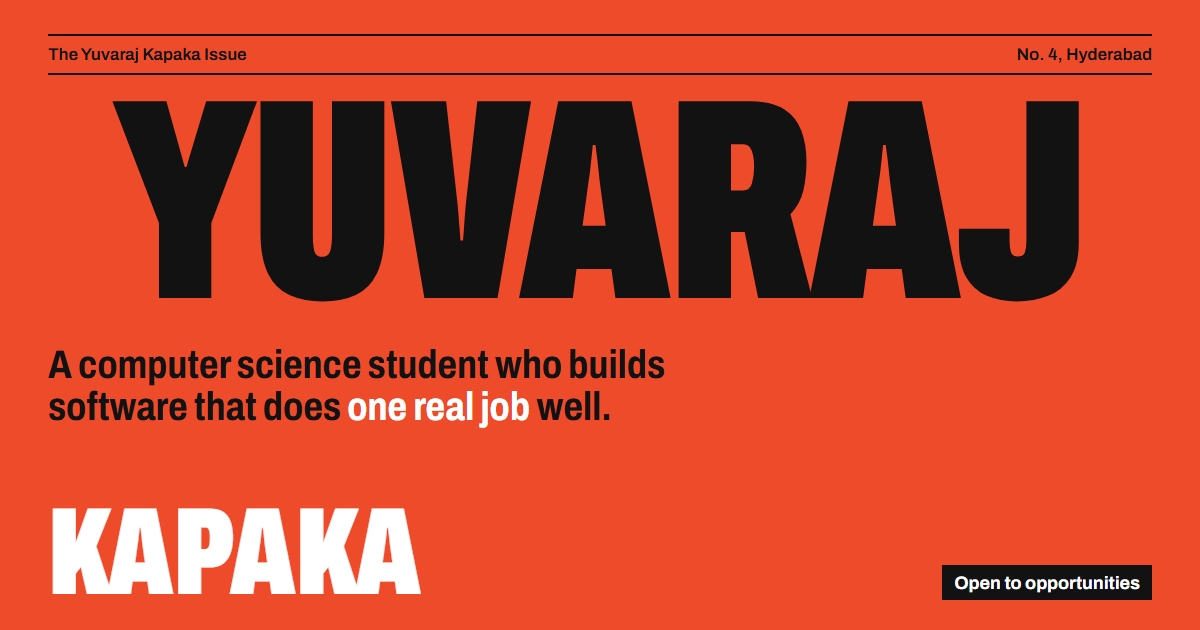
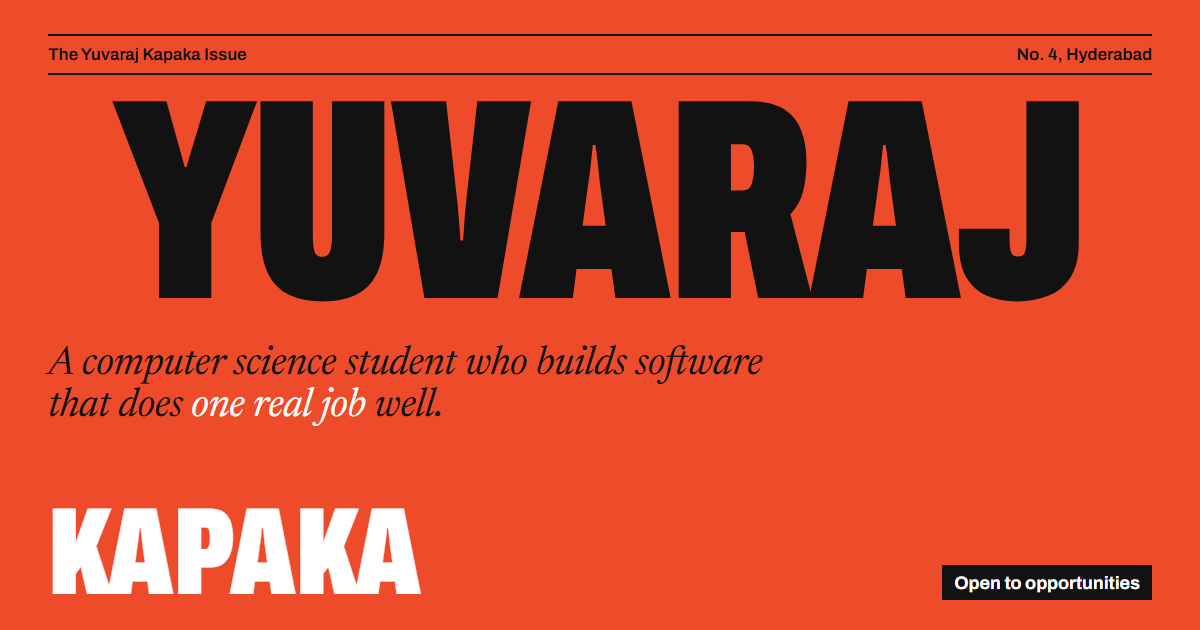
Bring back Newsreader for reading text and italics

Changed region(s): [[0.0308, 0.5429, 0.6475, 0.6937]]

diff --git a/portfolio.css b/portfolio.css
@@ -2,8 +2,8 @@
    YUVARAJ KAPAKA, Issue 4
    Art direction: the portfolio as a printed magazine.
    White paper, ink, and one spot colour: signal red.
-   Type: Archivo only. Condensed (62-80%) for headlines,
-         normal width for reading text and labels.
+   Type: Archivo (variable width) for headlines and labels,
+         Newsreader (optical sizes) for reading text.
    ================================================================== */
 :root {
   --paper: #FFFFFF;
@@ -16,7 +16,7 @@
   --spot-ink: var(--ink);    /* text colour that sits on --spot */
 
   --display: "Archivo", "Arial Narrow", sans-serif;
-  --text: "Archivo", "Helvetica Neue", Arial, sans-serif;
+  --text: "Newsreader", Georgia, serif;
 
   --gutter: clamp(16px, 3.4vw, 48px);
   --runner-h: 56px;
@@ -27,7 +27,7 @@
 /* ---------- base ---------- */
 *, *::before, *::after { box-sizing: border-box; }
 html { background: var(--paper); scroll-padding-top: calc(var(--runner-h) + 12px); overflow-x: clip; }
-body { margin: 0; overflow-x: clip; background: var(--paper); color: var(--ink); font: 400 18px/1.55 var(--text); font-stretch: 100%; -webkit-font-smoothing: antialiased; }
+body { margin: 0; overflow-x: clip; background: var(--paper); color: var(--ink); font: 400 19px/1.55 var(--text); font-optical-sizing: auto; -webkit-font-smoothing: antialiased; }
 img { display: block; max-width: 100%; height: auto; }
 a { color: inherit; }
 h1, h2, h3, p, ol, ul, dl, dd, figure, blockquote { margin: 0; }
@@ -114,13 +114,13 @@ body.menu-open .runner { background: var(--red); border-bottom-color: var(--ink)
 }
 .cl-kicker { display: flex; flex-wrap: wrap; align-items: center; gap: 10px 16px; font-size: 12px; }
 .cl-open { padding: 6px 10px 5px; background: var(--ink); color: var(--paper); }
-.cl-statement { max-width: 16em; margin: 14px 0 22px; font: 700 clamp(30px, 3.5vw, 60px)/1.02 var(--text); font-stretch: 80%; letter-spacing: -.01em; text-wrap: balance; }
+.cl-statement { max-width: 16em; margin: 14px 0 22px; font: italic 400 clamp(32px, 3.7vw, 64px)/1.02 var(--text); letter-spacing: -.015em; text-wrap: balance; }
 .cl-statement em { font-style: normal; color: var(--paper); }
 .cover-actions { display: flex; flex-wrap: wrap; gap: 10px; }
 .cl-right { display: grid; }
 .cl-story { display: grid; grid-template-columns: minmax(0, 1fr) auto; align-items: baseline; gap: 2px 12px; padding: 10px 0; border-top: 2px solid var(--ink); text-decoration: none; font: 800 clamp(17px, 1.5vw, 23px)/1.08 var(--display); font-stretch: 75%; text-transform: uppercase; transition: padding-left 220ms var(--ease); }
 .cl-story b { grid-column: 1 / -1; font: 600 12px var(--display); text-transform: none; }
-.cl-story i { font: 600 14px var(--text); font-style: normal; text-transform: none; }
+.cl-story i { font: italic 500 15px var(--text); text-transform: none; }
 .cl-story:hover { padding-left: 10px; }
 .cover-foot { display: flex; justify-content: space-between; align-items: flex-end; gap: 24px; padding: 12px 0 12px; border-top: 2px solid var(--ink); }
 .surname { font: 900 11vw/.76 var(--display); font-stretch: 62%; color: var(--paper); letter-spacing: -.01em; }
@@ -132,7 +132,7 @@ body.menu-open .runner { background: var(--red); border-bottom-color: var(--ink)
 .page-head { display: grid; grid-template-columns: fit-content(62%) minmax(0, 1fr); gap: 8px clamp(28px, 4vw, 64px); align-items: end; margin-bottom: clamp(36px, 5vw, 64px); }
 .page-head .folio { grid-column: 1 / -1; font-size: 12px; color: var(--ink-3); }
 .page-head h2 { font: 900 clamp(64px, 12vw, 190px)/.8 var(--display); font-stretch: 62%; text-transform: uppercase; letter-spacing: -.01em; }
-.standfirst { font: 500 clamp(20px, 2vw, 28px)/1.3 var(--text); letter-spacing: -.005em; max-width: 22em; padding-bottom: .3em; }
+.standfirst { font: italic 400 clamp(22px, 2.2vw, 32px)/1.25 var(--text); max-width: 22em; padding-bottom: .3em; }
 
 /* Contents */
 .toc { border-top: 3px solid var(--ink); }
@@ -153,7 +153,7 @@ body.menu-open .runner { background: var(--red); border-bottom-color: var(--ink)
 .f-kicker span:first-child { padding: 6px 10px; background: var(--spot); color: var(--spot-ink); }
 .f-kicker .folio { margin-left: auto; color: var(--ink-3); }
 .f-title { font: 900 clamp(64px, 12.6vw, 200px)/.82 var(--display); font-stretch: 62%; text-transform: uppercase; letter-spacing: -.01em; text-wrap: balance; }
-.f-standfirst { margin-top: 22px; max-width: 26em; font: 500 clamp(20px, 2.1vw, 30px)/1.3 var(--text); letter-spacing: -.005em; text-wrap: pretty; }
+.f-standfirst { margin-top: 22px; max-width: 26em; font: italic 400 clamp(22px, 2.3vw, 34px)/1.24 var(--text); text-wrap: pretty; }
 .f-fig { margin: clamp(32px, 4vw, 56px) 0; border: 2px solid var(--ink); background: var(--ink); }
 .shot-stage { position: relative; aspect-ratio: 1440 / 900; overflow: hidden; background: #111; }
 .shot-stage img { position: absolute; inset: 0; width: 100%; height: 100%; object-fit: cover; transition: opacity 420ms var(--ease); }
@@ -206,7 +206,7 @@ body.menu-open .runner { background: var(--red); border-bottom-color: var(--ink)
 .dropcap::first-letter { float: left; margin: .05em .08em -.1em 0; font: 900 5.4em/.78 var(--display); font-stretch: 62%; color: var(--spot); }
 .pull {
   break-inside: avoid; margin: 1.1em 0; padding: 18px 0; position: relative;
-  font: 800 clamp(26px, 2.5vw, 36px)/1.08 var(--text); font-stretch: 75%; color: var(--ink);
+  font: italic 500 clamp(24px, 2.2vw, 30px)/1.22 var(--text); color: var(--ink);
   text-indent: -.42em; /* hang the opening quote mark outside the text edge */
 }
 .pull::before, .pull::after { content: ""; position: absolute; left: 0; right: 0; height: 3px; background: var(--spot); transform-origin: left; }
@@ -214,7 +214,7 @@ body.menu-open .runner { background: var(--red); border-bottom-color: var(--ink)
 .notes { counter-reset: n; margin-top: 1em; }
 .notes li { break-inside: avoid; position: relative; padding: 12px 0; border-top: 1px solid var(--ink); font-size: 17px; line-height: 1.5; }
 .notes b { font-weight: 700; }
-.sc { font-variant-caps: normal; }
+.sc { font-variant-caps: all-small-caps; letter-spacing: .04em; }
 .f-meta { align-self: start; position: sticky; top: calc(var(--runner-h) + 24px); border-top: 3px solid var(--ink); }
 .f-meta dl > div { padding: 12px 0; border-bottom: 1px solid var(--ink); }
 .f-meta dt { font-size: 11px; color: var(--ink-3); margin-bottom: 4px; }
@@ -289,7 +289,7 @@ body.menu-open .runner { background: var(--red); border-bottom-color: var(--ink)
 .dub-bars { grid-area: bars; display: flex; align-items: center; gap: 3px; height: 56px; }
 .dub-bars i { flex: 1; height: var(--h); background: var(--paper); opacity: .85; transform-origin: center; }
 .dub-te .dub-bars i { background: var(--red); opacity: 1; }
-.dub-line { grid-area: line; font: 500 21px/1.3 var(--text); }
+.dub-line { grid-area: line; font: italic 400 22px/1.3 var(--text); }
 .dub-te .dub-line { font-family: "Noto Sans Telugu", var(--text); font-style: normal; font-weight: 500; }
 .dub-steps { display: flex; flex-wrap: wrap; gap: 8px; padding-top: 18px; border-top: 1px solid rgba(242, 239, 232, .35); }
 .dub-steps li { padding: 8px 12px; border: 1.5px solid var(--paper); font: 700 12px/1 var(--display);  cursor: default; transition: background-color 160ms var(--ease), color 160ms var(--ease); }
@@ -305,7 +305,7 @@ body.menu-open .runner { background: var(--red); border-bottom-color: var(--ink)
 .q { margin-top: 34px; font-size: 13px; color: var(--ink); }
 .q::before { content: "Q. "; color: var(--red); }
 .q:first-child { margin-top: 0; }
-.a { margin-top: 10px; font: 400 clamp(20px, 1.8vw, 25px)/1.45 var(--text); }
+.a { margin-top: 10px; font: 400 clamp(22px, 2vw, 28px)/1.4 var(--text); }
 .iv-areas { margin-top: 40px; padding-top: 14px; border-top: 3px solid var(--ink); font: 500 18px/1.5 var(--display); font-stretch: 90%; }
 .iv-areas span { display: block; font-size: 11px; color: var(--ink-3); margin-bottom: 4px; }
 
@@ -319,7 +319,7 @@ body.menu-open .runner { background: var(--red); border-bottom-color: var(--ink)
 .idx-row .pp { font: 700 15px var(--display); white-space: nowrap; }
 .idx-row .pp a { text-decoration: none; padding: 0 2px; margin: 0 -2px; }
 .idx-row .pp a:hover { background: var(--red); }
-.idx-row .pp em { font: 500 14px var(--text); font-style: normal; color: var(--ink-3); }
+.idx-row .pp em { font: italic 400 15px var(--text); color: var(--ink-3); }
 .idx-row:hover .term { text-decoration: underline; text-decoration-color: var(--red); text-decoration-thickness: 2px; }
 
 /* Colophon */
@@ -336,7 +336,7 @@ body.menu-open .runner { background: var(--red); border-bottom-color: var(--ink)
 .backcover { position: relative; overflow: hidden; padding: clamp(56px, 8vw, 110px) var(--gutter) 28px; background: var(--ink); color: var(--paper); border-top: 3px solid var(--ink); }
 .bc-top { display: flex; justify-content: space-between; padding-bottom: 12px; border-bottom: 2px solid var(--paper); font-size: 12px; }
 .bc-title { margin: clamp(32px, 5vw, 64px) 0 24px; font: 900 clamp(60px, 11.5vw, 190px)/.8 var(--display); font-stretch: 62%; text-transform: uppercase; }
-.bc-email { display: inline-block; font: 800 clamp(28px, 5vw, 76px)/1.05 var(--text); font-stretch: 75%; text-decoration: underline; text-decoration-color: var(--red); text-decoration-thickness: 4px; text-underline-offset: 10px; word-break: break-word; transition: color 200ms var(--ease); }
+.bc-email { display: inline-block; font: italic 400 clamp(28px, 5vw, 72px)/1.1 var(--text); text-decoration: underline; text-decoration-color: var(--red); text-decoration-thickness: 4px; text-underline-offset: 10px; word-break: break-word; transition: color 200ms var(--ease); }
 .bc-email:hover { color: var(--red); }
 .bc-actions { display: flex; flex-wrap: wrap; align-items: center; gap: 12px 22px; margin: 36px 0 clamp(56px, 8vw, 110px); font: 700 15px var(--display); }
 .bc-actions .link { --spot: var(--red); }

diff --git a/index.html b/index.html
@@ -18,7 +18,7 @@
   <meta name="twitter:card" content="summary_large_image">
   <link rel="preconnect" href="https://fonts.googleapis.com">
   <link rel="preconnect" href="https://fonts.gstatic.com" crossorigin>
-  <link href="https://fonts.googleapis.com/css2?family=Archivo:wdth,wght@62..125,100..900&family=Noto+Sans+Telugu:wght@500;700&display=swap" rel="stylesheet">
+  <link href="https://fonts.googleapis.com/css2?family=Archivo:wdth,wght@62..125,100..900&family=Newsreader:ital,opsz,wght@0,6..72,400..700;1,6..72,400..700&family=Noto+Sans+Telugu:wght@500;700&display=swap" rel="stylesheet">
   <link rel="stylesheet" href="portfolio.css">
   <script>document.documentElement.classList.add("js");</script>
   <script src="portfolio.js" defer></script>
